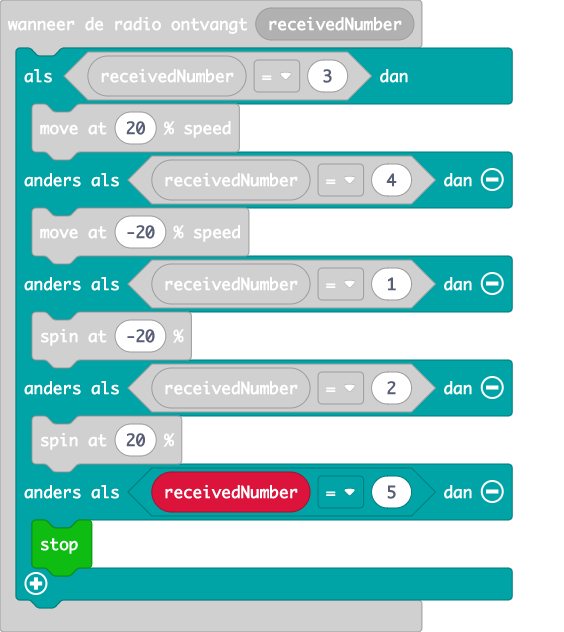
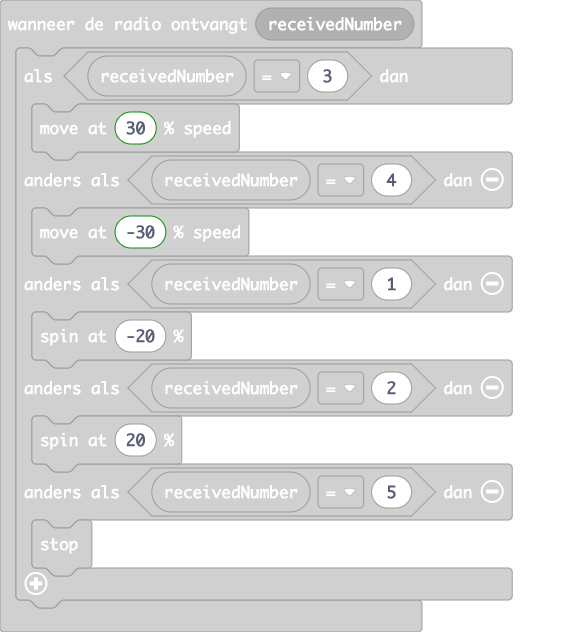
main.blocks, main.ts bijwerken

diff --git a/main.ts b/main.ts
@@ -1,8 +1,8 @@
 radio.onReceivedNumber(function (receivedNumber) {
     if (receivedNumber == 3) {
-        RobotCar_Keyestudio.Motors.move(20)
+        RobotCar_Keyestudio.Motors.move(30)
     } else if (receivedNumber == 4) {
-        RobotCar_Keyestudio.Motors.move(-20)
+        RobotCar_Keyestudio.Motors.move(-30)
     } else if (receivedNumber == 1) {
         RobotCar_Keyestudio.Motors.spin(-20)
     } else if (receivedNumber == 2) {
